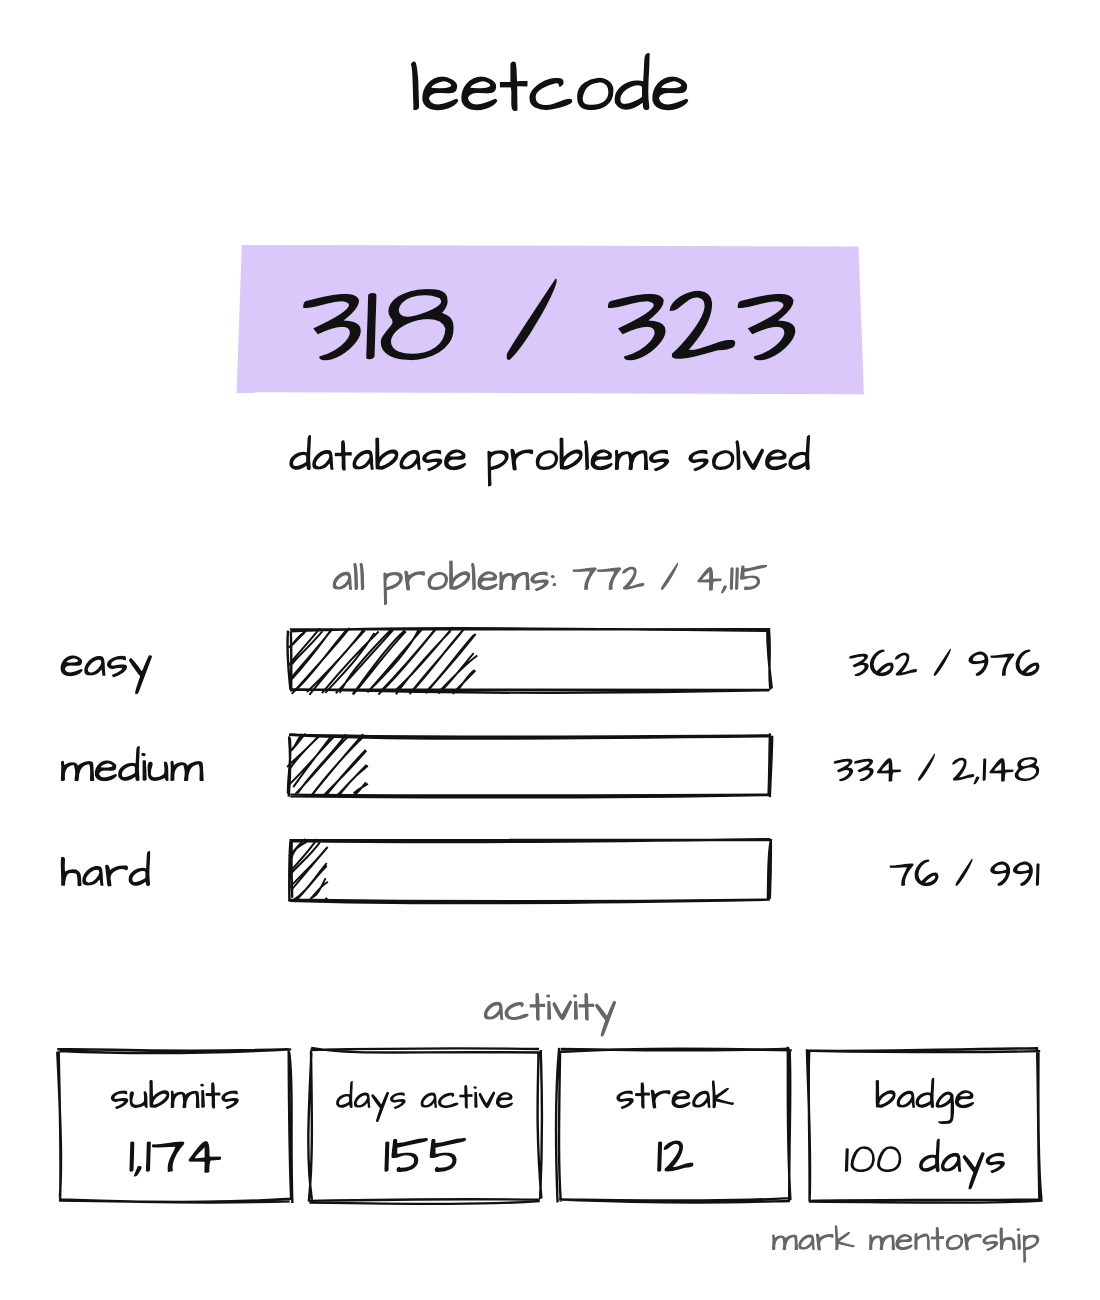
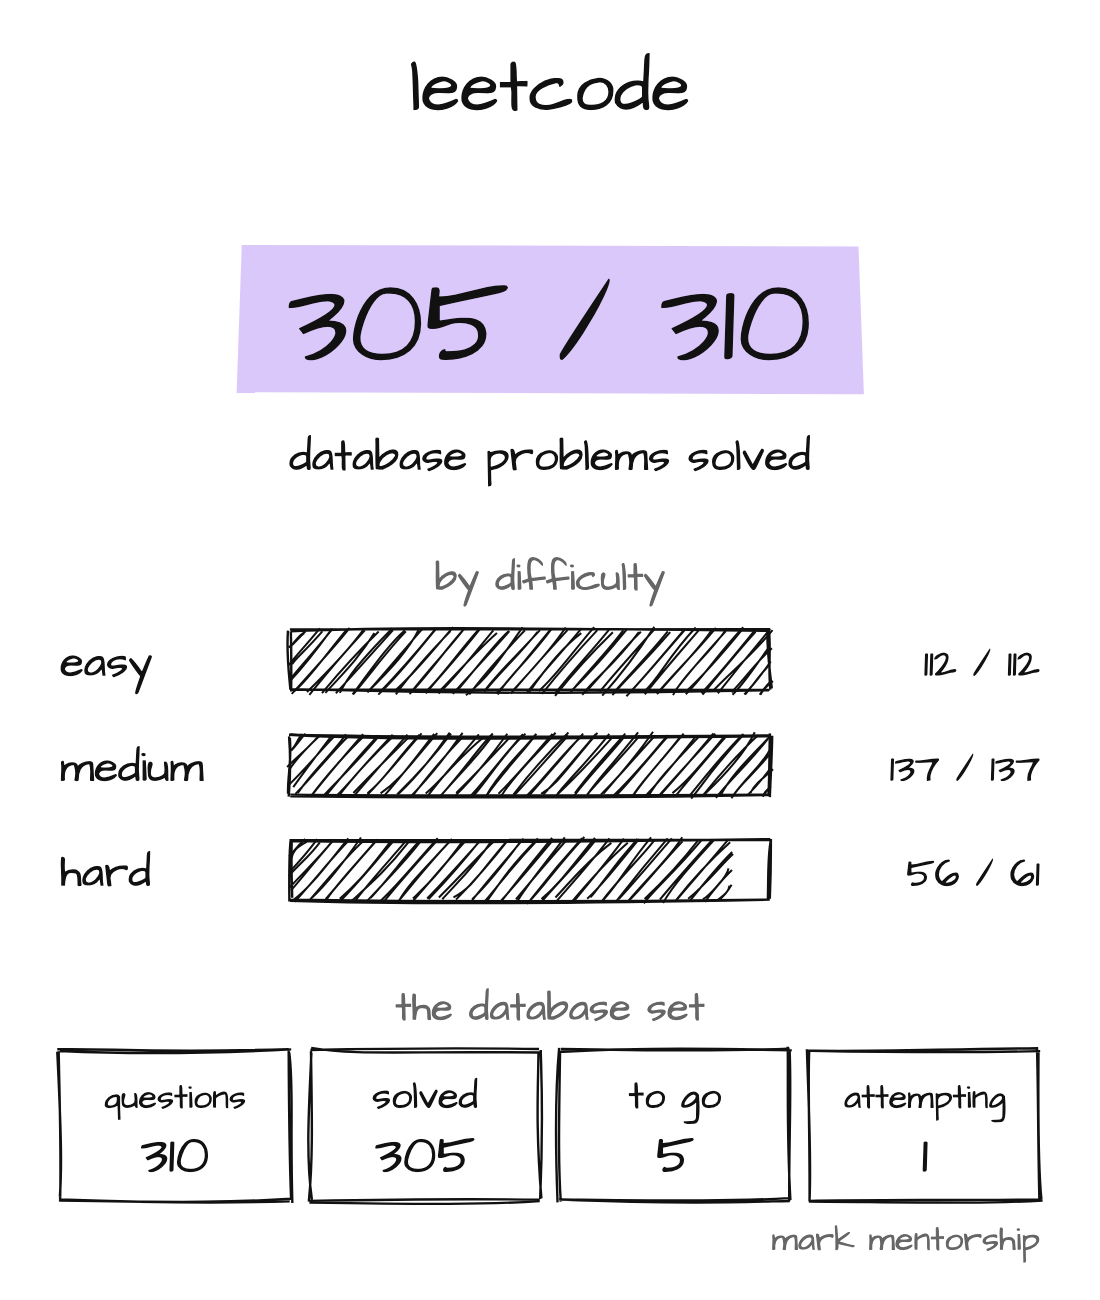
Show only the LeetCode Database set: 305 of 310 solved.

diff --git a/drawing/sql-lc.js b/drawing/sql-lc.js
@@ -1,25 +1,24 @@
-// leetcode scoreboard. same layout as sql-ss.js so the pair lines up.
-// the headline is the database set. the difficulty rows are all problems:
-// 772 = 362 + 334 + 76, out of 4,115.
+// leetcode scoreboard: the Database study plan only (310 questions). same layout as sql-ss.js so the pair lines up.
+// 305 solved = 112 + 137 + 56. 5 unsolved, 1 of them attempting.
 text('leetcode', 550, 110, 72);
 highlight(240, 245, 620, 150);
-text('318 / 323', 550, 360, 120);
+text('305 / 310', 550, 360, 120);
 text('database problems solved', 550, 470, 44);
 
-text('all problems: 772 / 4,115', 550, 590, 40, 'middle', '#666');
-[['easy', 362, 976], ['medium', 334, 2148], ['hard', 76, 991]].forEach(([name, done, all], i) => {
+text('by difficulty', 550, 590, 40, 'middle', '#666');
+[['easy', 112, 112], ['medium', 137, 137], ['hard', 56, 61]].forEach(([name, done, all], i) => {
   const y = 630 + i * 105;
   text(name, 60, y + 46, 44, 'start');
   rect(290, y, 480, 60, {strokeWidth: 2.4});
   rect(290, y, Math.round(480 * done / all), 60, {stroke: 'none', fill: INK, fillStyle: 'hachure', hachureGap: 11, fillWeight: 2});
-  text(`${done} / ${all.toLocaleString('en-US')}`, 1040, y + 46, 40, 'end');
+  text(`${done} / ${all}`, 1040, y + 46, 40, 'end');
 });
 
-text('activity', 550, 1020, 40, 'middle', '#666');
-[['submits', '1,174'], ['days active', '155'], ['streak', '12'], ['badge', '100 days']].forEach(([name, n], i) => {
+text('the database set', 550, 1020, 40, 'middle', '#666');
+[['questions', '310'], ['solved', '305'], ['to go', '5'], ['attempting', '1']].forEach(([name, n], i) => {
   const x = 60 + i * 250;
   rect(x, 1050, 230, 150, {strokeWidth: 2.4});
   text(name, x + 115, 1108, name.length > 8 ? 34 : 38);
-  text(n, x + 115, 1172, n.length > 5 ? 42 : 54);
+  text(n, x + 115, 1172, 54);
 });
 signature();

diff --git a/index.html b/index.html
@@ -115,7 +115,7 @@ j=d.createElement(s),dl=l!='dataLayer'?'&l='+l:'';j.async=true;j.src=
           <span class="hand sql-cap">see it on stratascratch</span>
         </a>
         <a href="https://leetcode.com/u/markphammm/" target="_blank" rel="noopener">
-          <img class="drawing" src="assets/img/sql-lc.png" alt="LeetCode: 318 of 323 database problems solved. All problems 772 of 4,115: easy 362 of 976, medium 334 of 2,148, hard 76 of 991. 1,174 submissions, 155 active days, max streak 12, 100 days badge." width="1100" height="1300" loading="lazy">
+          <img class="drawing" src="assets/img/sql-lc.png" alt="LeetCode Database study plan: 305 of 310 problems solved. Easy 112 of 112, medium 137 of 137, hard 56 of 61. 5 to go, 1 attempting." width="1100" height="1300" loading="lazy">
           <span class="hand sql-cap">see it on leetcode</span>
         </a>
         <p class="hand sql-cap sql-more" data-i18n="stat.sql.more">plus HackerRank and other sites, not shown here.</p>
